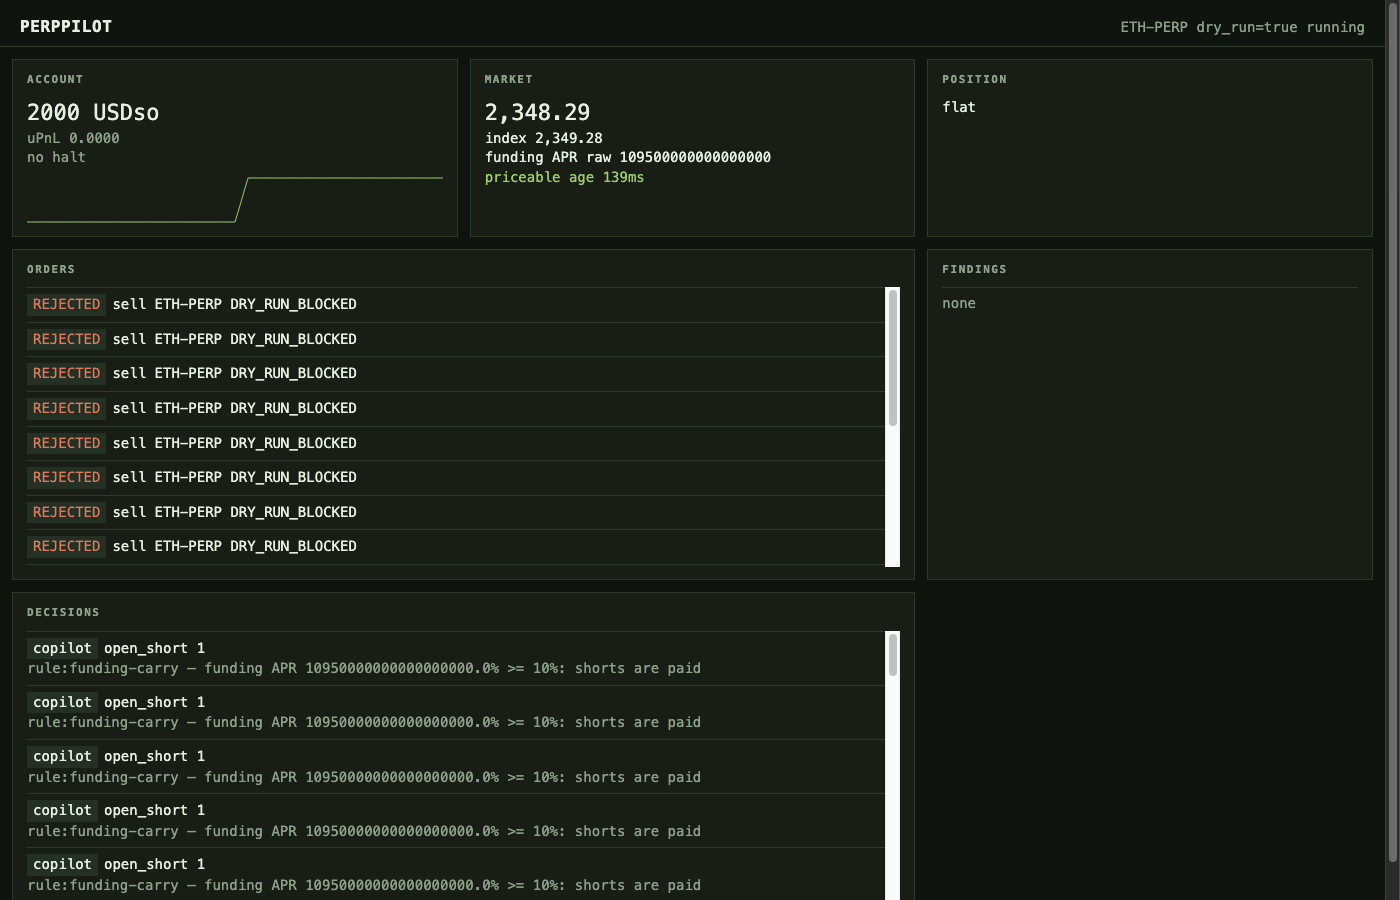
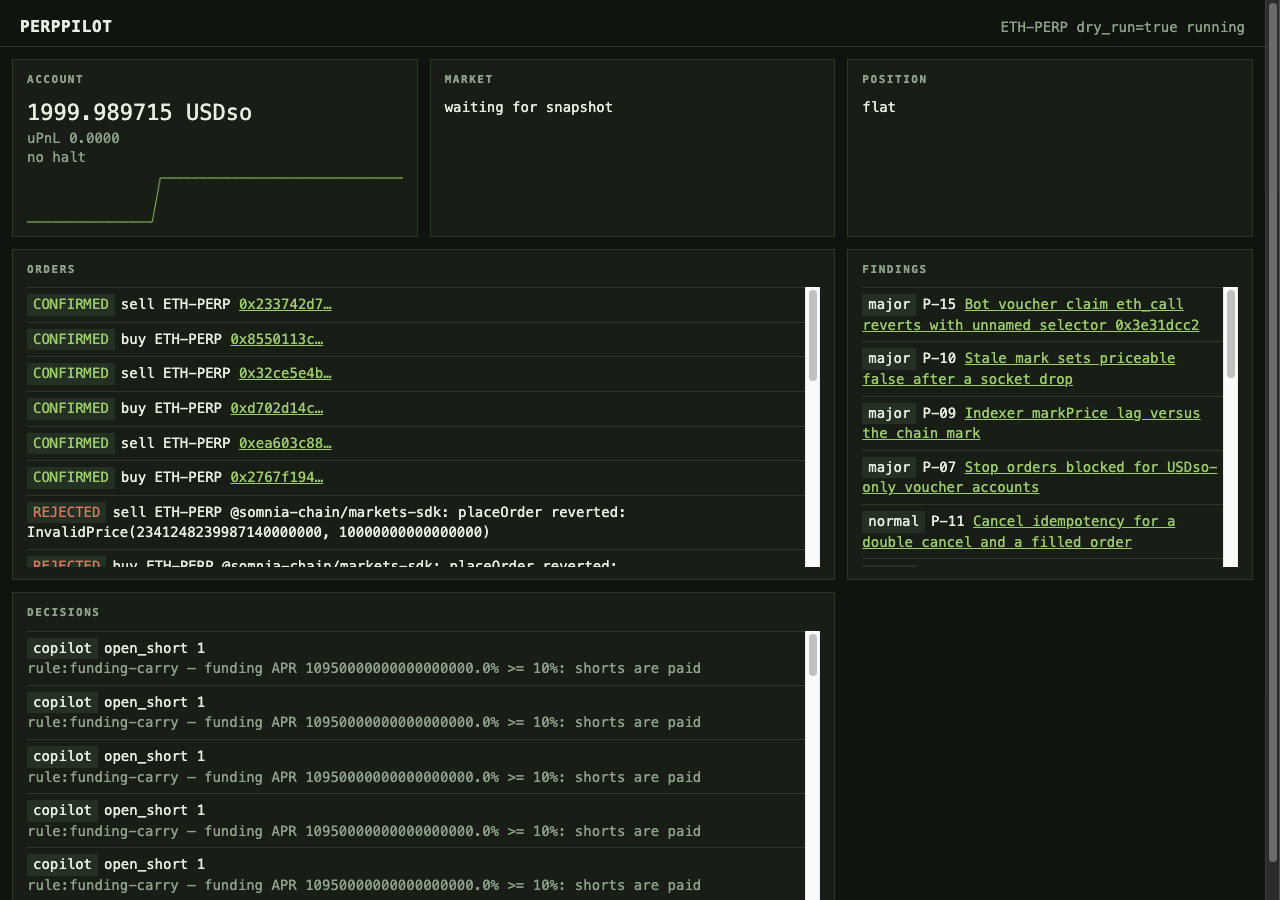
TASK-15.3: Bind the dashboard to localhost and fix its readings
Short positions mirror TP/SL, funding prints as a percent, and findings link their report files.

diff --git a/src/dashboard/public/index.html b/src/dashboard/public/index.html
@@ -97,15 +97,16 @@ function paint() {
     $('market').innerHTML =
       '<div class="num">' + fmt(snap.markPrice) + '</div>' +
       '<div>index ' + fmt(snap.indexPrice) + '</div>' +
-      '<div>funding APR raw ' + snap.fundingApr + '</div>' +
+      '<div>funding APR ' + (Number.isFinite(Number(snap.fundingApr)) ? (Number(snap.fundingApr) * 100).toFixed(2) + '%' : '—') + '</div>' +
       '<div class="' + (fresh ? 'ok' : 'bad') + '">' + (snap.priceable ? 'priceable' : 'not priceable') + '  age ' + age(snap.markAgeMs) + '</div>';
   }
   const pos = state.position[0];
   if (!pos) $('position').textContent = 'flat';
   else {
     const entry = Number(pos.avgEntry);
-    const tp = entry * (1 + p.tpPct / 100);
-    const sl = entry * (1 - p.slPct / 100);
+    const long = Number(pos.qty) > 0;
+    const tp = long ? entry * (1 + p.tpPct / 100) : entry * (1 - p.tpPct / 100);
+    const sl = long ? entry * (1 - p.slPct / 100) : entry * (1 + p.slPct / 100);
     $('position').innerHTML = 'qty ' + pos.qty + '<br>entry ' + entry + '<br>TP ' + tp.toFixed(2) + '  SL ' + sl.toFixed(2);
   }
   $('orders').innerHTML = state.orders.map((o) => {
@@ -118,7 +119,11 @@ function paint() {
     try { const j = JSON.parse(d.payloadJson); action = j.action || action; conf = j.confidence != null ? ' ' + j.confidence : ''; } catch (e) {}
     return '<li><span class="chip">' + esc(d.agent) + '</span>' + esc(action) + esc(conf) + '<div class="meta">' + esc(d.rationale || '') + '</div></li>';
   }).join('') || '<li class="meta">none</li>';
-  $('findings').innerHTML = state.findings.map((f) => '<li><span class="chip">' + esc(f.severity) + '</span>' + esc(f.probeId || '') + ' ' + esc(f.title) + '</li>').join('') || '<li class="meta">none</li>';
+  $('findings').innerHTML = state.findings.map((f) => {
+    const file = String(f.reportPath || '').split('/').pop();
+    const title = /^[\w.-]+\.md$/.test(file) ? '<a href="/files/feedback/' + encodeURIComponent(file) + '">' + esc(f.title) + '</a>' : esc(f.title);
+    return '<li><span class="chip">' + esc(f.severity) + '</span>' + esc(f.probeId || '') + ' ' + title + '</li>';
+  }).join('') || '<li class="meta">none</li>';
   const c = $('spark');
   const ctx = c.getContext('2d');
   ctx.clearRect(0, 0, c.width, c.height);

diff --git a/tests/dashboard-levels.test.ts b/tests/dashboard-levels.test.ts
@@ -1,0 +1,20 @@
+import { describe, it, expect } from 'vitest';
+
+function levels(qty: number, entry: number, tpPct: number, slPct: number) {
+  const long = qty > 0;
+  const tp = long ? entry * (1 + tpPct / 100) : entry * (1 - tpPct / 100);
+  const sl = long ? entry * (1 - slPct / 100) : entry * (1 + slPct / 100);
+  return { tp, sl };
+}
+
+it('long TP is above entry and SL is below', () => {
+  expect(levels(0.01, 3000, 2, 1.5)).toEqual({ tp: 3060, sl: 2955 });
+});
+
+it('short TP and SL are the mirror image', () => {
+  const out = levels(-0.01, 3000, 2, 1.5);
+  expect(out.tp).toBeCloseTo(2940, 5);
+  expect(out.sl).toBeCloseTo(3045, 5);
+  expect(out.tp).toBeLessThan(3000);
+  expect(out.sl).toBeGreaterThan(3000);
+});

diff --git a/src/dashboard/server.ts b/src/dashboard/server.ts
@@ -81,4 +81,12 @@ function pumpJournal() {
 }
 setInterval(pumpJournal, 500);
 
-server.listen(cfg.PORT, () => console.log(`dashboard http://localhost:${cfg.PORT}`));
+app.get('/files/feedback/:name', (req, res) => {
+  const name = req.params.name;
+  if (!/^[\w.-]+\.md$/.test(name)) { res.status(400).end(); return; }
+  const full = fileURLToPath(new URL(`../../feedback/${name}`, import.meta.url));
+  if (!existsSync(full)) { res.status(404).end(); return; }
+  res.type('text/plain').sendFile(full);
+});
+
+server.listen(cfg.PORT, '127.0.0.1', () => console.log(`dashboard http://127.0.0.1:${cfg.PORT}`));

diff --git a/backlog.md b/backlog.md
@@ -12,7 +12,7 @@
 
 ## 🧠 CURRENT STATE MONITOR
 * **Current Phase:** Phase 11 — Chain-Truth Corrections (appended 2026-10-28). See the SEQUENCING NOTE at the top of Phase 11 — TASK-10.3's human step (public repo + submit) runs FIRST, TASK-10.1/10.2 run LAST (as TASK-15.7).
-* **Last Completed Task:** TASK-15.2 (15.4 and 15.5 also landed; 15.3 dashboard, 15.6 live re-proof, and 15.7 README are still open)
+* **Last Completed Task:** TASK-15.3
 * **Active Working Context / Variable State:**
   * Node v22.19.0, npm 10.9.3. Installed `@somnia-chain/markets-sdk@0.32.1` (exact), `zod@4.6.7`, `@anthropic-ai/sdk@1.3.0`. `npm run typecheck` exits 0.
   * Directory tree exists: `src/agents`, `src/feedback`, `src/dashboard/public`, `scripts`, `tests`, `feedback`, `docs`, `runs`.
@@ -1577,7 +1577,7 @@ Standing rules for this phase: every report states which documented case it reac
   * *Exact Action:* Read a `runs/<date>.jsonl`, re-run the pure decision path (signals + `evaluate`) over recorded snapshots, diff simulated vs recorded decisions, print a summary. Refuse to start if any line matches `/0x[0-9a-fA-F]{64}/` with a key-shaped field name; assert no signing material ever parsed.
   * *Verification Criteria:* Runs on `runs/2026-10-27.jsonl` and prints a diff; test with a fixture journal (including one poisoned line → refusal).
 
-- [ ] **TASK-15.3: Dashboard fixes.**
+- [x] **TASK-15.3: Dashboard fixes.**
   * *Exact Action:* Bind `127.0.0.1` explicitly (`server.listen(PORT, '127.0.0.1')` — PRD FR-8 says localhost); short positions show mirrored TP/SL lines; funding APR as human %; sparkline uses the synced equity series (now non-constant via TASK-11.4); findings rows link their report files.
   * *Verification Criteria:* `curl` from a non-loopback interface fails; long and short TP/SL both render correctly given fixture positions.
 
